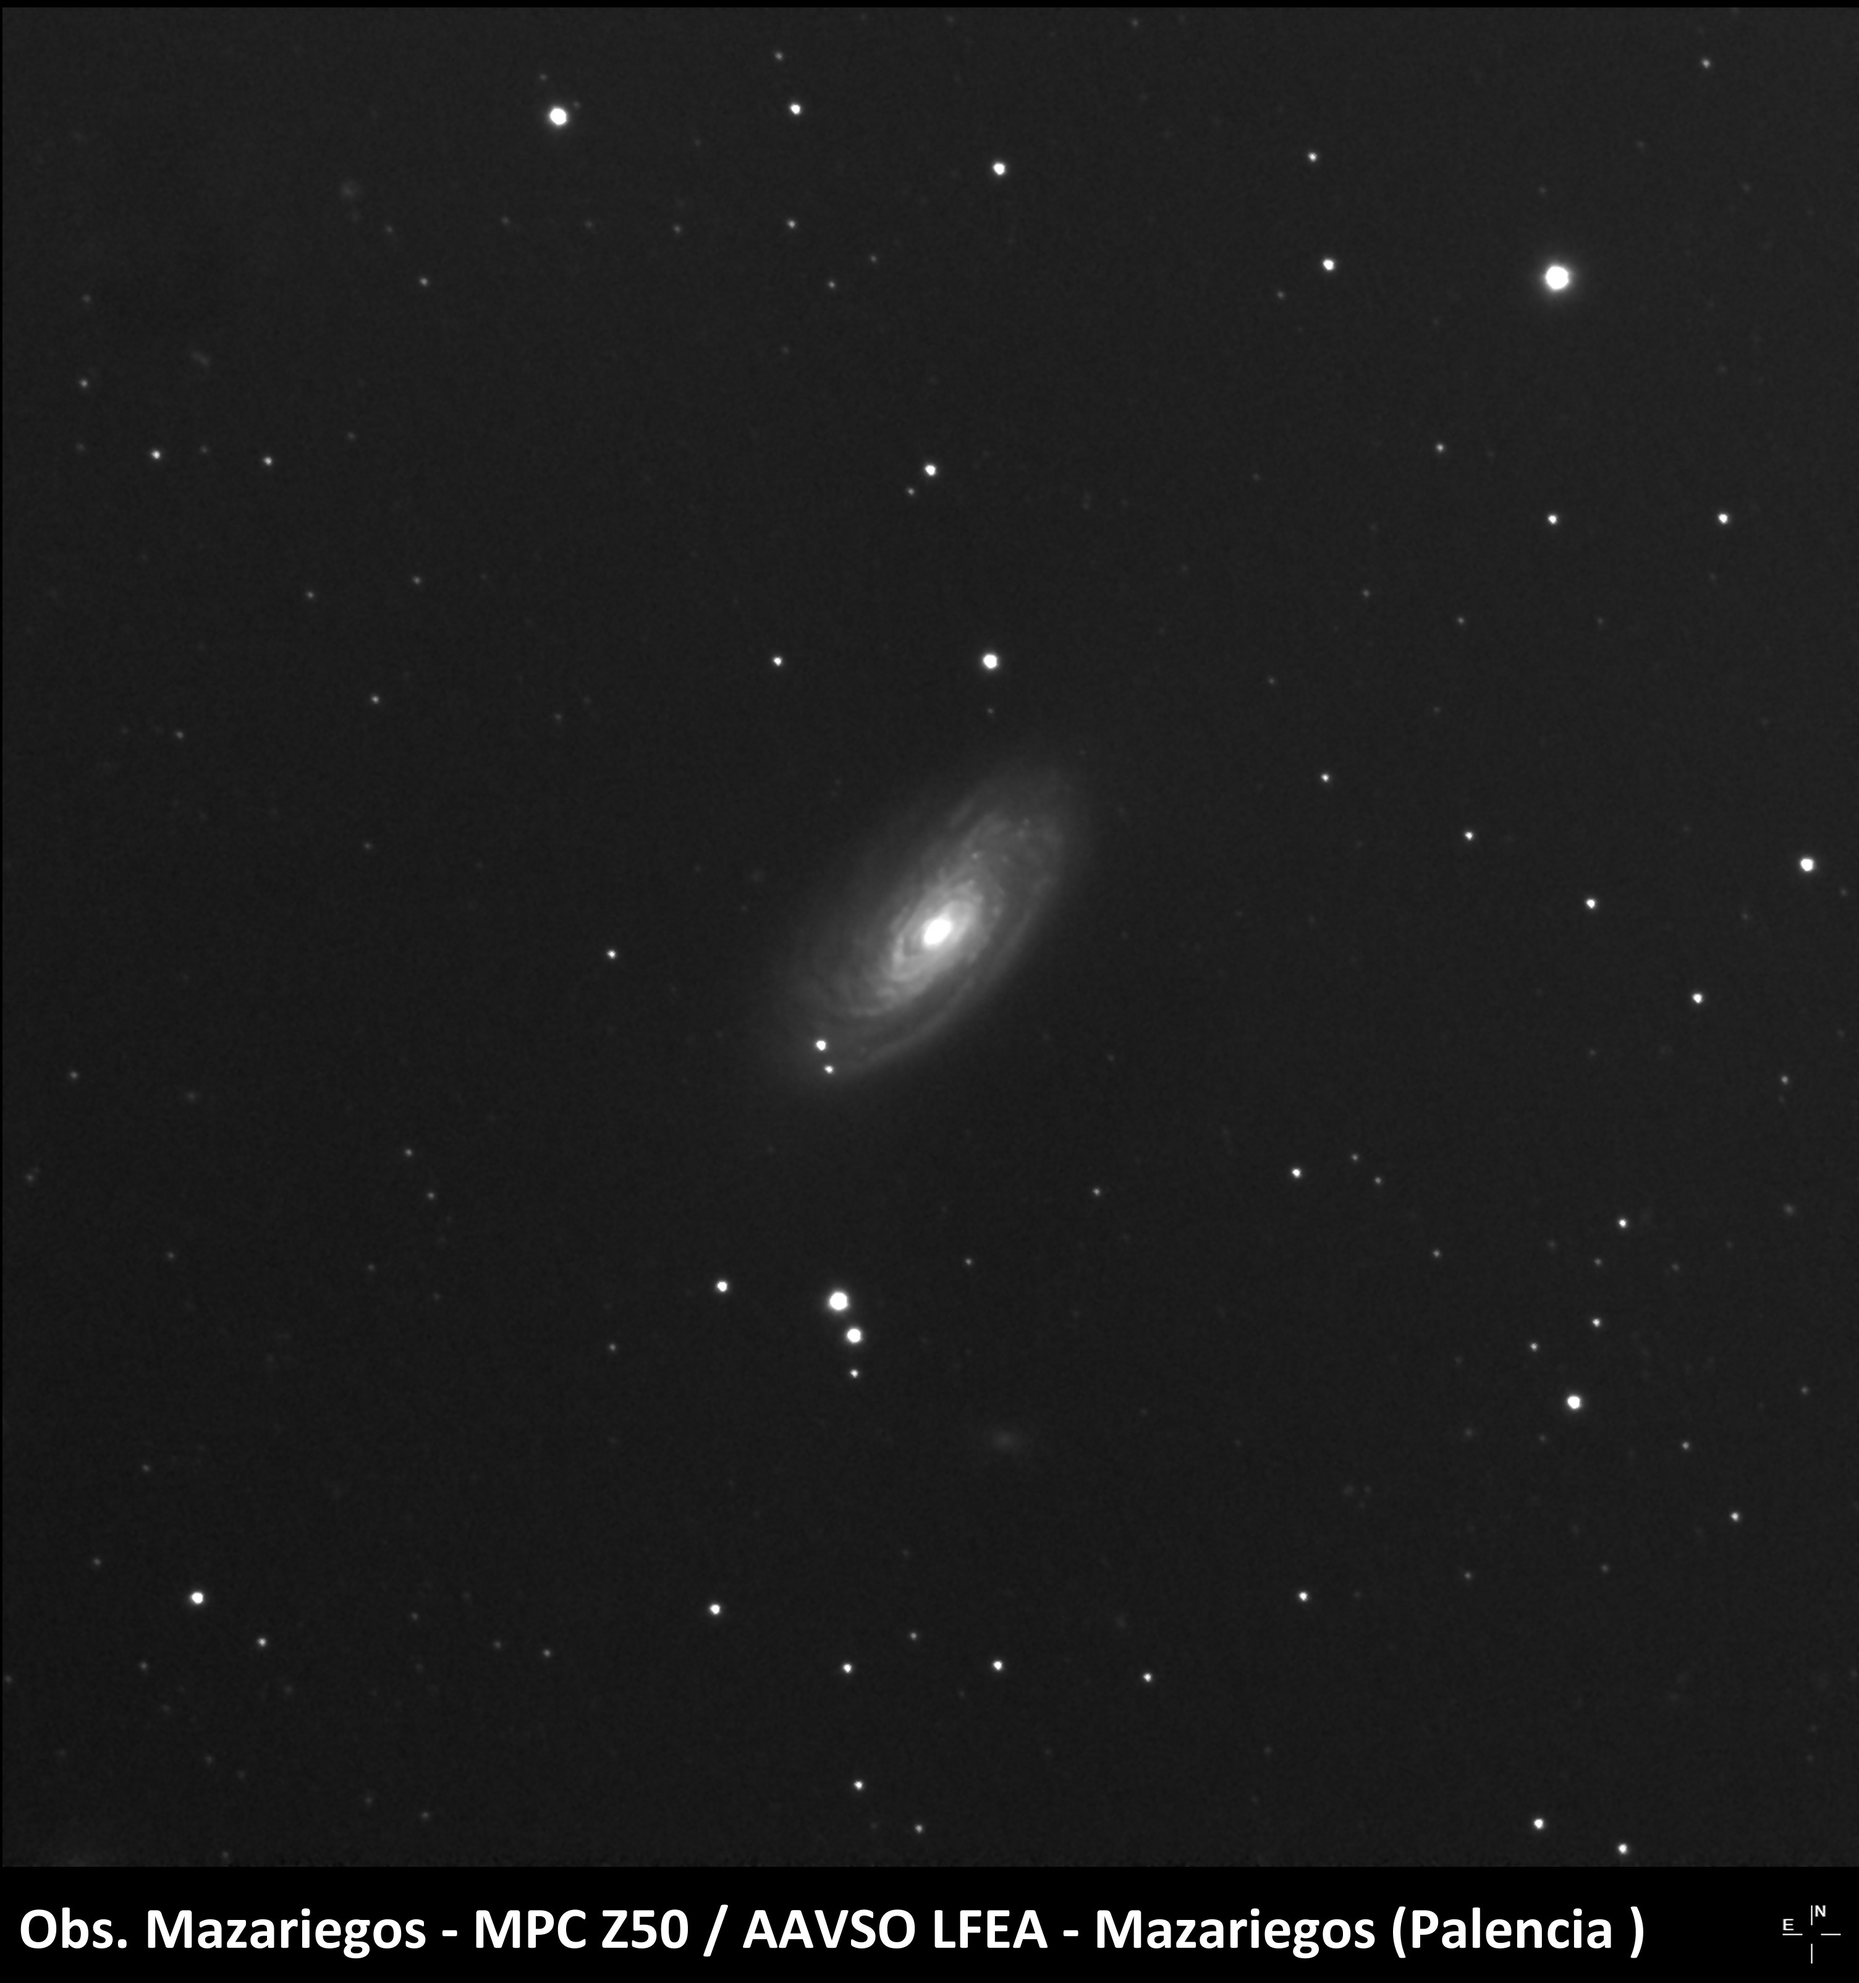
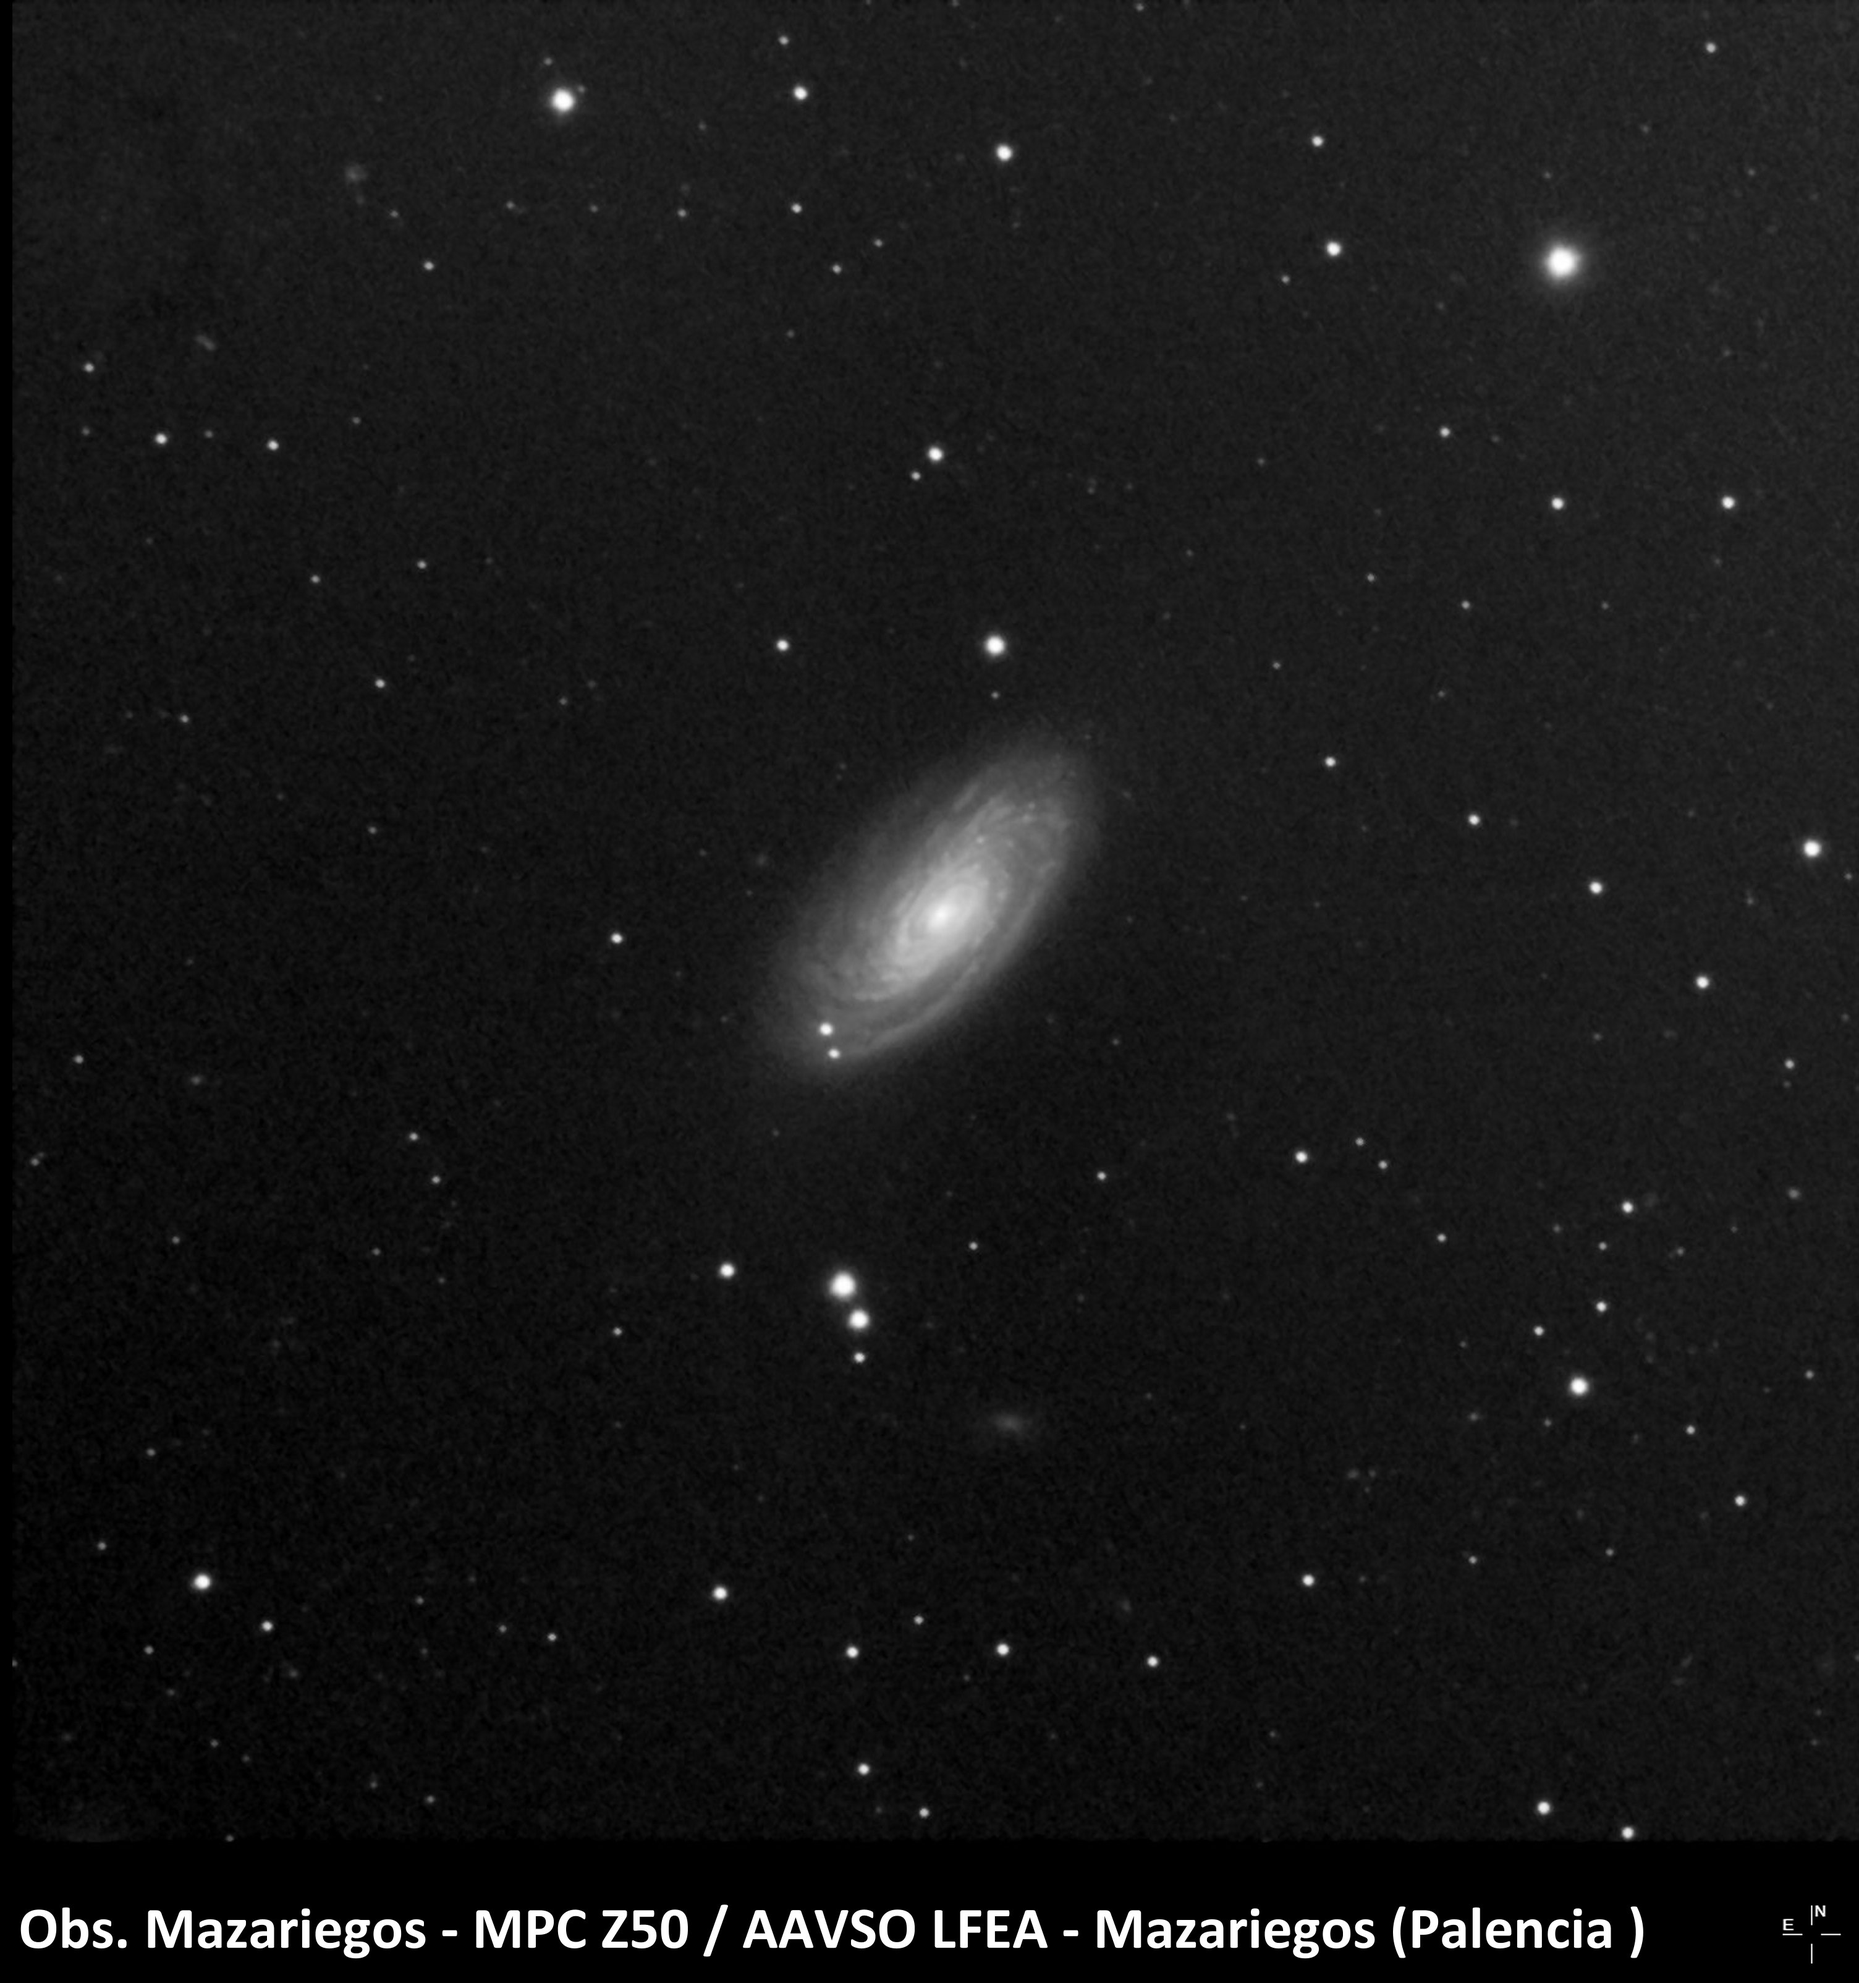
M90

diff --git a/astro/m90.html b/astro/m90.html
@@ -1,0 +1,74 @@
+<!doctype html public "-//w3c//dtd html 4.0 transitional//en">
+<html>
+<head><meta http-equiv="Content-Type" content="text/html; charset=utf-8">
+<link REL="SHORTCUT ICON" HREF="../../icons/favicon.png">
+
+<meta name="GENERATOR" content="Microsoft FrontPage 5.0">
+<title>Fernando Lim&oacute;n [Astrofotografía]</title>
+</head>
+<body text="#000000" bgcolor="#111111">
+<table border="0" cellpadding="0" cellspacing="0" style="border-collapse: collapse" width="1156" id="AutoNumber1">
+  <tr>
+    <td width="4%">
+    &nbsp;</td>
+    <td width="1073">
+    <p align="center">
+<font face="Avery Deluxe" size="7" color="#C6C246">M90</font></td>
+    <td width="4%" align="justify">&nbsp;</td>
+  </tr>
+  <tr>
+    <td width="49" style="border-style:solid; border-width:0px; ">
+    <p align="center">&nbsp;</td>
+    <td width="1073" style="border: 5px solid #BD9600">
+    <font size="4" color="#FFFFFF">&nbsp;</font></td>
+    <td width="34" align="justify">
+    &nbsp;</td>
+  </tr>
+  <tr>
+    <td width="49">&nbsp;</td>
+    <td width="1073">&nbsp;</td>
+    <td width="34" align="justify">&nbsp;</td>
+  </tr>
+  </table>
+
+<table border="0" cellpadding="0" cellspacing="0" style="border-collapse: collapse" width="100%" id="AutoNumber2" height="365">
+  <tr>
+    <td width="26%" style="border: 5px solid #BD9600" rowspan="4" height="1" align="center">
+    <a href="M90-20250408.jpg">
+    <img border="0" src="M90-20250408.jpg" width="320"></a></td>
+    <td width="2%" style="border-style: solid; border-width: 0" rowspan="4" height="1"></td>
+    <td width="15%" style="border-style: outset; border-width: 5" height="30">
+    <p align="left"><font size="4" color="#FFFFFF">Fecha / Lugar</font></td>
+    <td width="83%" style="border-style: outset; border-width: 5" valign="top" height="30">
+    <p align="left"><font face="Times New Roman" color="#FFFFFF">08/ABR/2025 
+    21:37 UTC - Mazariegos (Palencia)</font></td>
+  </tr>
+  <tr>
+    <td width="15%" style="border-style: outset; border-width: 5" height="30">
+    <p align="left"><font color="#FFFFFF" size="4">Telescopio / Cámara</font></td>
+    <td width="83%" style="border-style: outset; border-width: 5" valign="top" height="30">
+    <font color="#FFFFFF" face="Times New Roman">Celestron SCT XLT</font><font color="#ffffff" face="Times New Roman"> 
+    8&quot; -&nbsp; ASI533MM Pro - FR 0.77</font><p style="margin-top: 0pt; margin-bottom: 0pt">
+    <font color="#ffffff" face="Times New Roman">Guiado: ZWO ASI 120MM - EZG-60</font></td>
+  </tr>
+  <tr>
+    <td width="15%" style="border-style: outset; border-width: 5" height="30">
+    <p align="left"><font size="4" color="#FFFFFF">Proceso</font></td>
+    <td width="83%" style="border-style: outset; border-width: 5" valign="top" height="30">
+    <font color="#FFFFFF" face="Times New Roman">L: 3000&quot;</font></td>
+  </tr>
+  <tr>
+    <td width="15%" style="border-style: outset; border-width: 5" height="1">
+    <font size="4" color="#FFFFFF">Software</font></td>
+    <td width="83%" style="border-style: outset; border-width: 5" valign="top" height="1">
+    <font color="#FFFFFF" face="Times New Roman">Maxim DL / Photoshop</font></td>
+  </tr>
+  <tr>
+    <td width="26%" height="19" align="center">&nbsp;</td>
+    <td width="2%" height="24">&nbsp;</td>
+    <td width="98%" colspan="2" height="19">&nbsp;</td>
+  </tr>
+  </table>
+
+</body>
+</html>

diff --git a/CatalogoMessier.html b/CatalogoMessier.html
@@ -525,7 +525,11 @@ M51</font></b></td>
 &nbsp;</td>
 
 <td COLSTART="1" height="68" width="90" align="center" style="border:3px double #BD9600; ">
-&nbsp;</td>
+<b><font color="#0000FF" size="2" face="Comic Sans MS"><a href="astro/m90.html">
+<font color="#FFFFFF">
+<img border="0" src="astro/M90-20250408.jpg" width="90" height="70"></font></a><font color="#FFFFFF"><br>
+</font></a>
+</font><font size="2" face="Comic Sans MS">M90</font></b></td>
 </tr>
 <tr>
 
